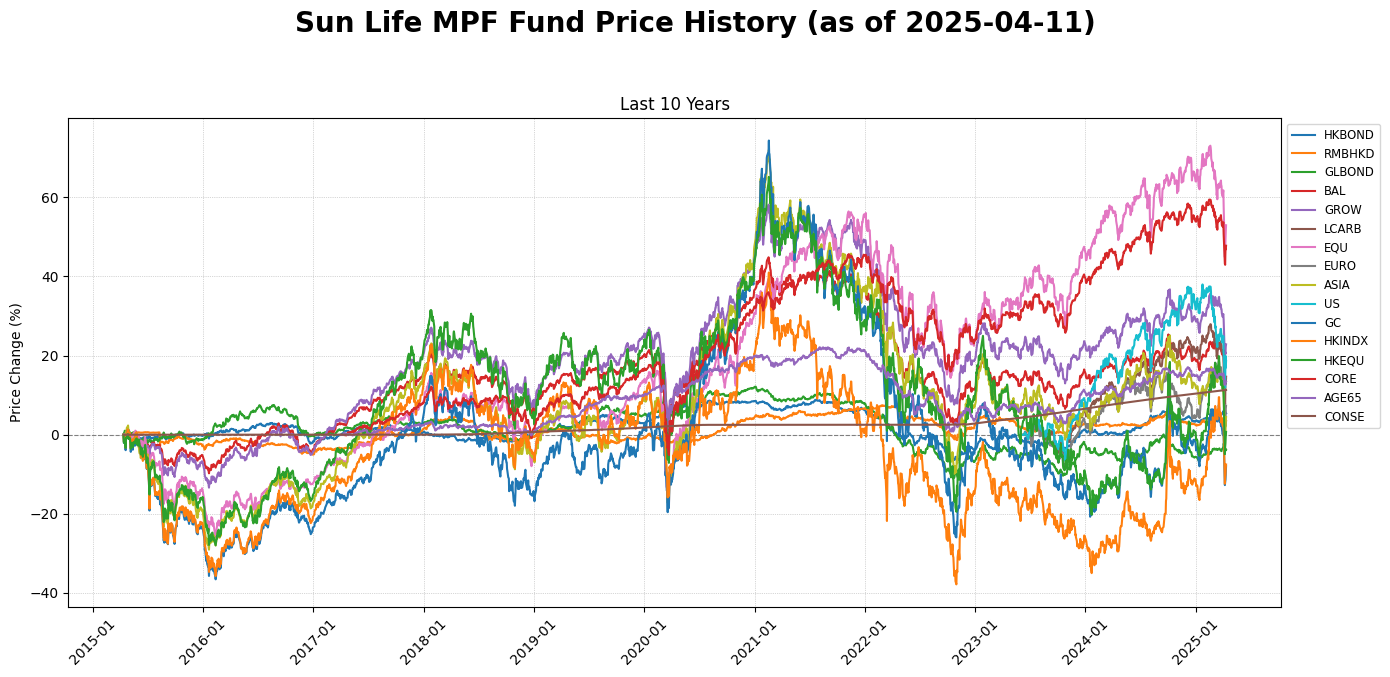
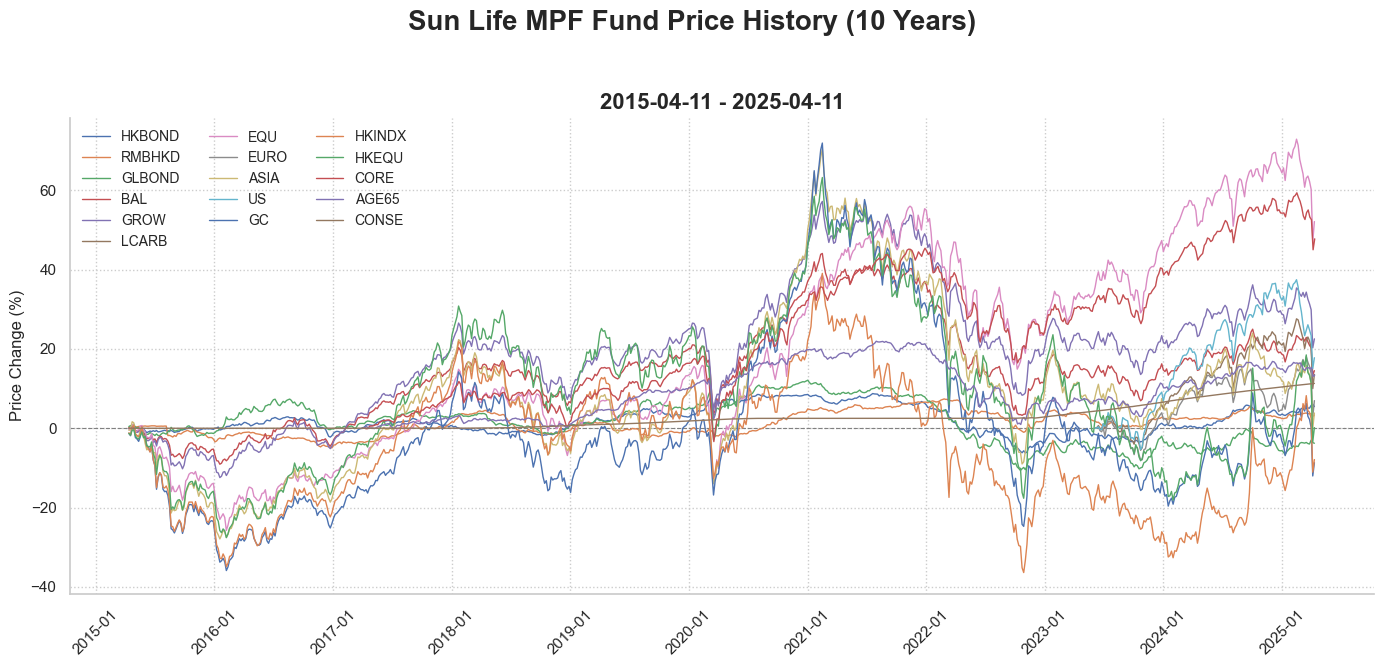
improve styles

diff --git a/visualizer.py b/visualizer.py
@@ -26,57 +26,58 @@ last_date = df.iloc[-1, 0]
 def per_year():
     if not os.path.exists(per_year_path):
         os.makedirs(per_year_path)
+    
+    sns.set_theme(style="whitegrid")
 
     period_years = [1, 3, 5, 10, 25]
-    # start_dates = [last_date - timedelta(days=(1461 * period // 4)) for period in period_years]
     start_dates = [datetime(year=last_date.year - period, month=last_date.month, day=last_date.day) for period in period_years]
 
     fund_abbrs = names['abbr'].unique()
 
-    # fig, axes = plt.subplots(len(period_years), 1, figsize=(14, 7 * len(period_years)), sharex=False)
-    # fig.suptitle(f'Sun Life MPF Fund Price History (as of {last_date.strftime("%Y-%m-%d")})', fontsize=20, fontweight='bold', y=0.99)
-
-    # so when axes is (1, 1), it is not subscriptable
-    # if not hasattr(axes, '__iter__'):
-    #     axes = [axes]
-
     for i in range(len(period_years)):
         start_date = start_dates[i]
         period_label = period_years[i]
-        # ax = axes[i]
 
         fig, ax = plt.subplots(figsize=(14, 7))
-        fig.suptitle(f'Sun Life MPF Fund Price History (as of {last_date.strftime("%Y-%m-%d")})', fontsize=20, fontweight='bold', y=0.99)
-
-        ax.set_title(f'Last {period_label} Year{period_label > 1 and "s" or ""}')
+        fig.suptitle(f'Sun Life MPF Fund Price History ({period_label} Year{period_label > 1 and "s" or ""})', fontsize=20, fontweight='bold')
+        
+        ax.set_title(f'{start_date.strftime("%Y-%m-%d")} - {last_date.strftime("%Y-%m-%d")}', fontsize=16, fontweight='bold')
         ax.axhline(0, color='grey', linestyle='--', linewidth=0.8)
         ax.set_ylabel('Price Change (%)')
         ax.xaxis.set_major_formatter(mdates.DateFormatter('%Y-%m'))
         ax.tick_params(axis='x', rotation=45)
 
         for abbr in fund_abbrs:
-            period_data = df[(df['abbr'] == abbr) & (df['date'] >= start_date)].copy()
+            plot_df = df[(df['abbr'] == abbr) & (df['date'] >= start_date)].copy()
 
-            if period_data.empty:
+            if plot_df.empty:
                 continue
 
-            actual_start_date = period_data.iloc[0, 0]
-            start_price = period_data.iloc[0, 1]
+            actual_start_date = plot_df.iloc[0, 0]
+            start_price = plot_df.iloc[0, 1]
 
             if pd.isna(start_price):
                 continue
 
-            period_data['price_change'] = (period_data['price'] - start_price) / start_price * 100
-            ax.plot(period_data['date'], period_data['price_change'], label=abbr, linewidth=1.5)
+            plot_df['price_change'] = (plot_df['price'] - start_price) / start_price * 100
+
+            plot_df = plot_df.set_index('date')
+
+            if period_label == 10:
+                plot_df = plot_df[['price_change']].resample('5D').mean().interpolate(method='linear')
+            elif period_label == 25:
+                plot_df = plot_df[['price_change']].resample('15D').mean().interpolate(method='linear')
             
-        ax.legend(loc='upper left', bbox_to_anchor=(1, 1), fontsize='small')
-        ax.grid(True, linestyle=':', linewidth=0.5)
+            plot_df = plot_df.reset_index()
+            ax.plot(plot_df['date'], plot_df['price_change'], label=abbr, linewidth=1.0)
+        
+        ax.legend(loc='upper left', fontsize=10, frameon=False, ncols=3)
+        ax.grid(True, linestyle=':', linewidth=1)
+        sns.despine()
 
         plt.tight_layout(rect=[0, 0.03, 1, 0.95])
         plt.savefig(os.path.join(per_year_path, f'{period_label}.png'), bbox_inches='tight')
-
-    # plt.tight_layout(rect=[0, 0.03, 1, 0.95])
-    # plt.savefig(output_img, bbox_inches='tight') 
+        plt.close(fig)
 
 if __name__ == '__main__':
     per_year()
